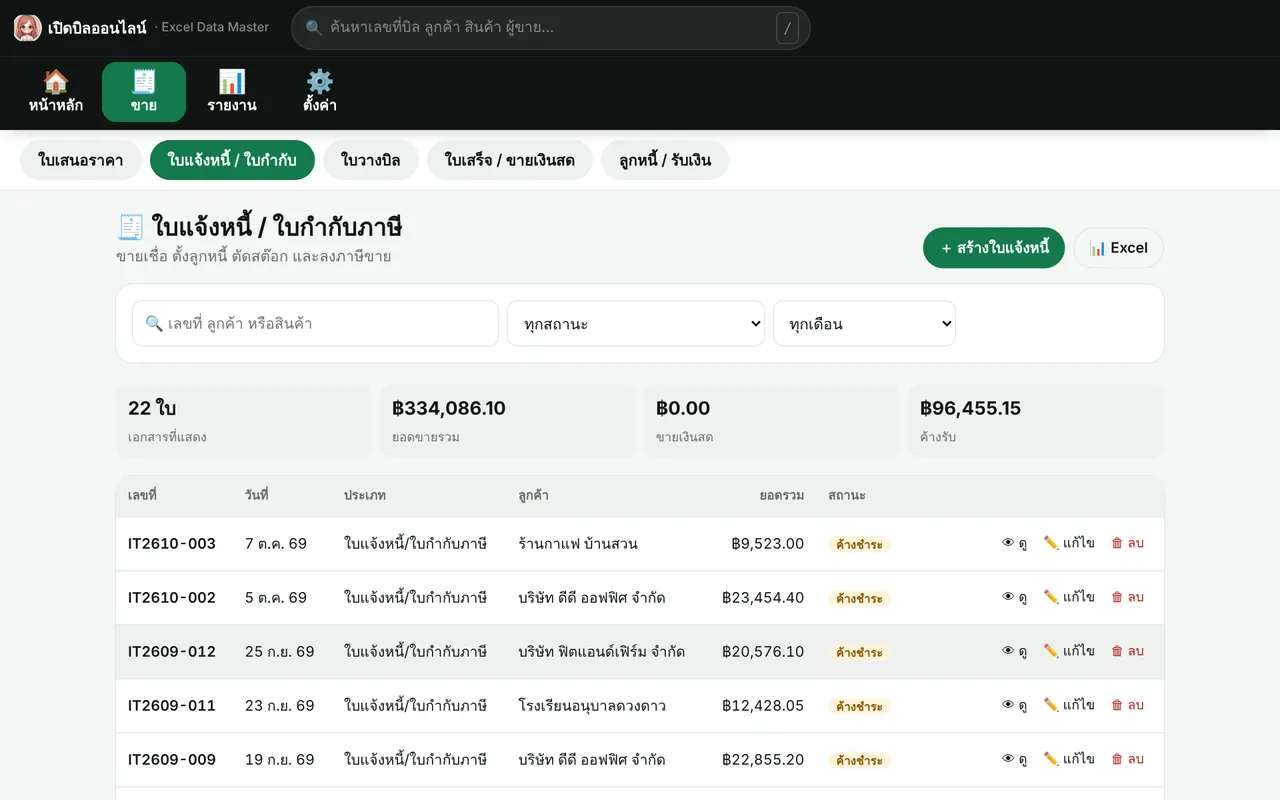
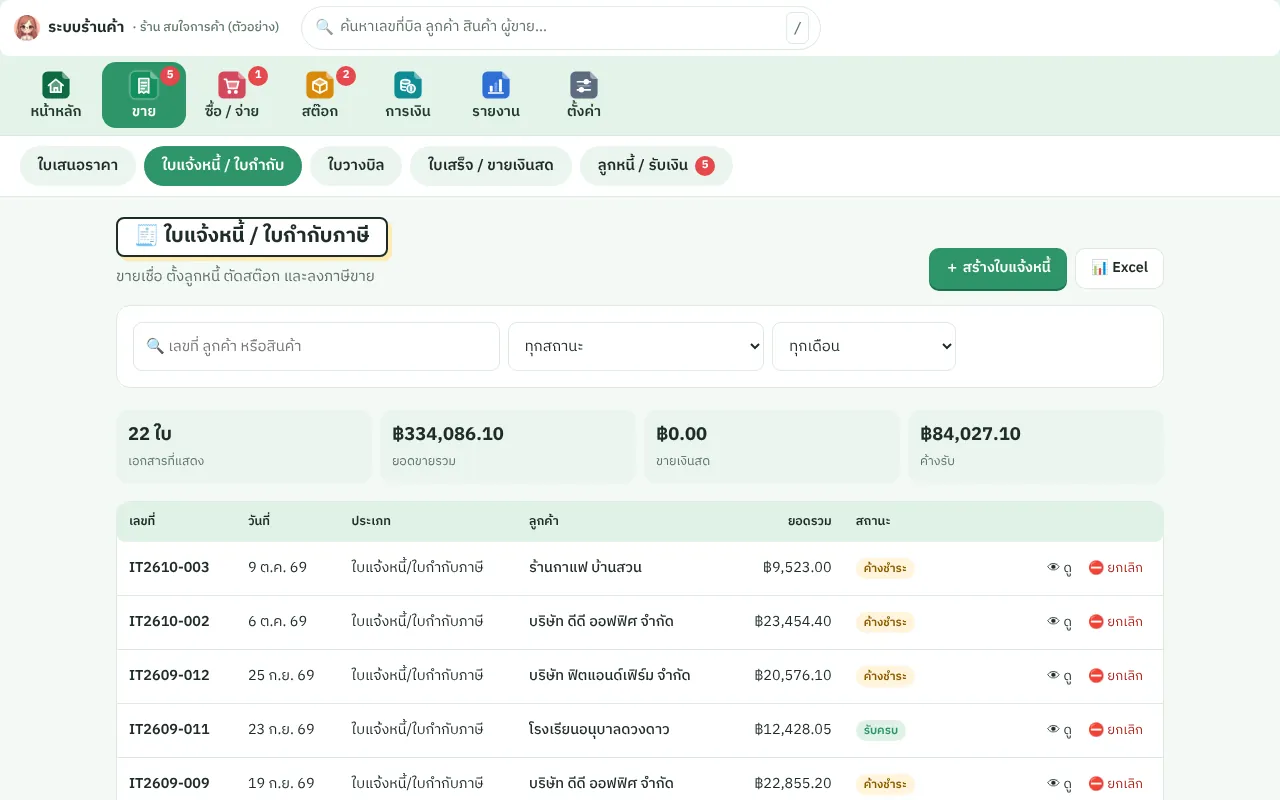
หน้าร้าน: ภาพสินค้าใหม่ทุกระบบ (หน้าตาพาสเทล ข้อมูลตัวอย่าง ฟอนต์จริง) · แก้ตัวเลขเด่นบัญชีร้านค้าที่มองไม่เห็น
Claude-Session: https://claude.ai/code/session_01EbbxVPtwtVY3ByRXsAceaL

diff --git a/index.html b/index.html
@@ -671,8 +671,8 @@ header.top .hd .logo{flex:0 1 auto;min-width:0}
         <ul class="hx-ok"><li>ไม่ต้องใส่บัตรเครดิต</li><li>ใส่โลโก้และข้อมูลร้านของคุณเอง</li><li>ติดตรงไหน ทัก LINE มีคนตอบ</li></ul>
       </div>
       <div class="hx-art" aria-hidden="true">
-        <figure class="dev-pc"><div class="dev-bar"><i></i><i></i><i></i><span>exceldatamaster.com/bill</span></div><img src="/assets/shop/ui-billform.webp" alt="" width="1280" height="800"></figure>
-        <figure class="dev-ph"><img src="/assets/shop/ui-m_cafe.webp" alt="" width="585" height="1266"></figure>
+        <figure class="dev-pc"><div class="dev-bar"><i></i><i></i><i></i><span>exceldatamaster.com/bill</span></div><img src="/assets/shop/ui-billform.webp?v=2" alt="" width="1280" height="800"></figure>
+        <figure class="dev-ph"><img src="/assets/shop/ui-m_cafe.webp?v=2" alt="" width="585" height="1266"></figure>
       </div>
     </div></section>
 
@@ -686,26 +686,26 @@ header.top .hd .logo{flex:0 1 auto;min-width:0}
       <a class="sys-main" href="/app/">
         <div class="sys-main-txt"><span class="sys-tag">คุ้มที่สุด</span><h3><span class="ico2 lg on-dark"><svg class="edm-ic " viewBox="0 0 32 32" aria-hidden="true" focusable="false"><path d="M7 1.5h15.5L30.5 9.5V25a5.5 5.5 0 0 1-5.5 5.5H7A5.5 5.5 0 0 1 1.5 25V7A5.5 5.5 0 0 1 7 1.5z" fill="#0E6B43"></path><path d="M22.5 1.5v4.3a3.7 3.7 0 0 0 3.7 3.7h4.3z" fill="#fff" fill-opacity=".42"></path><g transform="translate(5.5 6.5) scale(.86)" fill="none" stroke="#fff" stroke-width="2.1" stroke-linecap="round" stroke-linejoin="round"><path fill="#fff" fill-opacity=".34" stroke="none" d="M5 11.5h14V20H5z"></path><path d="M3.5 9 5.3 4h13.4l1.8 5"></path><path d="M3.5 9a2.8 2.8 0 0 0 5.7 0 2.8 2.8 0 0 0 5.6 0 2.8 2.8 0 0 0 5.7 0M5 11.5V20h14v-8.5M10 20v-5h4v5"></path></g></svg></span>ระบบร้านค้า ตัวเต็ม</h3><p>เปิดบิล ภาษี สต๊อก ซื้อ-ค่าใช้จ่าย การเงิน และรายงาน อยู่ในที่เดียว หน้าแรกสรุปยอดขาย ลูกหนี้ และสินค้าใกล้หมดให้ทุกวัน</p>
           <ul class="sys-flow"><li>เปิดบิล</li><li>ตัดสต๊อก</li><li>ลงบัญชี</li><li>สรุปภาษี</li></ul><span class="btn btn-main">เข้าระบบร้านค้า</span></div>
-        <div class="sys-main-img"><img src="/assets/shop/ui-app.webp" alt="หน้าหลักระบบร้านค้า สรุปยอดขาย ภาษี ลูกหนี้" loading="lazy" width="1280" height="800"></div>
+        <div class="sys-main-img"><img src="/assets/shop/ui-app.webp?v=2" alt="หน้าหลักระบบร้านค้า สรุปยอดขาย ภาษี ลูกหนี้" loading="lazy" width="1280" height="800"></div>
       </a>
       <div class="sys-grid">
-        <a class="sys" href="/bill/"><div class="sys-img"><img src="/assets/shop/ui-billform.webp" alt="ตัวอย่างหน้าจอเปิดบิลออนไลน์" loading="lazy" width="1280" height="800"></div>
+        <a class="sys" href="/bill/"><div class="sys-img"><img src="/assets/shop/ui-billform.webp?v=2" alt="ตัวอย่างหน้าจอเปิดบิลออนไลน์" loading="lazy" width="1280" height="800"></div>
           <div class="sys-txt"><h3><span class="ico2 "><svg class="edm-ic " viewBox="0 0 32 32" aria-hidden="true" focusable="false"><path d="M7 1.5h15.5L30.5 9.5V25a5.5 5.5 0 0 1-5.5 5.5H7A5.5 5.5 0 0 1 1.5 25V7A5.5 5.5 0 0 1 7 1.5z" fill="#149060"></path><path d="M22.5 1.5v4.3a3.7 3.7 0 0 0 3.7 3.7h4.3z" fill="#fff" fill-opacity=".42"></path><g transform="translate(5.5 6.5) scale(.86)" fill="none" stroke="#fff" stroke-width="2.1" stroke-linecap="round" stroke-linejoin="round"><path fill="#fff" fill-opacity=".34" stroke="none" d="M6 3h12v18l-3-2-3 2-3-2-3 2z"></path><path d="M6 3h12v18l-3-2-3 2-3-2-3 2zM9 8h6M9 12h6M9 15.5h3.5"></path></g></svg></span>เปิดบิลออนไลน์</h3><p>ใบเสนอราคา ใบแจ้งหนี้ ใบกำกับภาษี ใบเสร็จ ใบวางบิล พิมพ์ A4 หรือส่ง PDF ให้ลูกค้า</p><span class="sys-go">ทดลองใช้ฟรี</span></div></a>
-        <a class="sys" href="/stock/"><div class="sys-img"><img src="/assets/shop/ui-stock.webp" alt="ตัวอย่างหน้าจอสต๊อกสินค้า" loading="lazy" width="1280" height="800"></div>
+        <a class="sys" href="/stock/"><div class="sys-img"><img src="/assets/shop/ui-stock.webp?v=2" alt="ตัวอย่างหน้าจอสต๊อกสินค้า" loading="lazy" width="1280" height="800"></div>
           <div class="sys-txt"><h3><span class="ico2 "><svg class="edm-ic " viewBox="0 0 32 32" aria-hidden="true" focusable="false"><path d="M7 1.5h15.5L30.5 9.5V25a5.5 5.5 0 0 1-5.5 5.5H7A5.5 5.5 0 0 1 1.5 25V7A5.5 5.5 0 0 1 7 1.5z" fill="#D98A0B"></path><path d="M22.5 1.5v4.3a3.7 3.7 0 0 0 3.7 3.7h4.3z" fill="#fff" fill-opacity=".42"></path><g transform="translate(5.5 6.5) scale(.86)" fill="none" stroke="#fff" stroke-width="2.1" stroke-linecap="round" stroke-linejoin="round"><path fill="#fff" fill-opacity=".34" stroke="none" d="M12 3 20.5 7.5 12 12 3.5 7.5z"></path><path d="M3.5 7.5 12 3l8.5 4.5v9L12 21l-8.5-4.5zM3.5 7.5 12 12l8.5-4.5M12 12v9"></path></g></svg></span>สต๊อกสินค้า</h3><p>รับเข้า เบิกออก ตรวจนับ รู้ยอดคงเหลือและต้นทุนเฉลี่ย เตือนก่อนของหมด</p><span class="sys-go">ทดลองใช้ฟรี</span></div></a>
-        <a class="sys" href="/cafe/"><div class="sys-img"><img src="/assets/shop/ui-cafe.webp" alt="ตัวอย่างหน้าจอร้านคาเฟ่ (POS)" loading="lazy" width="1280" height="800"></div>
+        <a class="sys" href="/cafe/"><div class="sys-img"><img src="/assets/shop/ui-cafe.webp?v=2" alt="ตัวอย่างหน้าจอร้านคาเฟ่ (POS)" loading="lazy" width="1280" height="800"></div>
           <div class="sys-txt"><h3><span class="ico2 "><svg class="edm-ic " viewBox="0 0 32 32" aria-hidden="true" focusable="false"><path d="M7 1.5h15.5L30.5 9.5V25a5.5 5.5 0 0 1-5.5 5.5H7A5.5 5.5 0 0 1 1.5 25V7A5.5 5.5 0 0 1 7 1.5z" fill="#8B5A3C"></path><path d="M22.5 1.5v4.3a3.7 3.7 0 0 0 3.7 3.7h4.3z" fill="#fff" fill-opacity=".42"></path><g transform="translate(5.5 6.5) scale(.86)" fill="none" stroke="#fff" stroke-width="2.1" stroke-linecap="round" stroke-linejoin="round"><path fill="#fff" fill-opacity=".34" stroke="none" d="M4 9h12v4.5A5.5 5.5 0 0 1 10.5 19h-1A5.5 5.5 0 0 1 4 13.5z"></path><path d="M4 9h12v4.5A5.5 5.5 0 0 1 10.5 19h-1A5.5 5.5 0 0 1 4 13.5zM16 10.5h1.3a2.6 2.6 0 0 1 0 5.2H16M7.5 3.3c-.7 1 .7 1.7 0 2.7M11.5 3.3c-.7 1 .7 1.7 0 2.7"></path></g></svg></span>ร้านคาเฟ่ (POS)</h3><p>ขายหน้าร้าน ออกคิว ส่งออเดอร์เข้าจอบาร์ ตัดวัตถุดิบตามสูตร ปิดกะนับเงิน</p><span class="sys-go">ทดลองใช้ฟรี</span></div></a>
-        <a class="sys" href="/booking/"><div class="sys-img"><img src="/assets/shop/ui-booking.webp" alt="ตัวอย่างหน้าจอจองห้อง / ให้เช่า" loading="lazy" width="1280" height="800"></div>
+        <a class="sys" href="/booking/"><div class="sys-img"><img src="/assets/shop/ui-booking.webp?v=2" alt="ตัวอย่างหน้าจอจองห้อง / ให้เช่า" loading="lazy" width="1280" height="800"></div>
           <div class="sys-txt"><h3><span class="ico2 "><svg class="edm-ic " viewBox="0 0 32 32" aria-hidden="true" focusable="false"><path d="M7 1.5h15.5L30.5 9.5V25a5.5 5.5 0 0 1-5.5 5.5H7A5.5 5.5 0 0 1 1.5 25V7A5.5 5.5 0 0 1 7 1.5z" fill="#7A4FC2"></path><path d="M22.5 1.5v4.3a3.7 3.7 0 0 0 3.7 3.7h4.3z" fill="#fff" fill-opacity=".42"></path><g transform="translate(5.5 6.5) scale(.86)" fill="none" stroke="#fff" stroke-width="2.1" stroke-linecap="round" stroke-linejoin="round"><rect fill="#fff" fill-opacity=".34" stroke="none" x="3.5" y="5" width="17" height="5" rx="1"></rect><rect x="3.5" y="5" width="17" height="15.5" rx="2.5"></rect><path d="M3.5 10h17M8 3v4M16 3v4M8.5 15l2.4 2.4 4.6-4.6"></path></g></svg></span>จองห้อง / ให้เช่า</h3><p>ห้องพัก ห้องประชุม สนาม อุปกรณ์ เช็กว่างให้ ไม่จองซ้อน รับมัดจำ ออกใบเสร็จ</p><span class="sys-go">ทดลองใช้ฟรี</span></div></a>
-        <a class="sys" href="/account/"><div class="sys-img"><img src="/assets/shop/ui-account.webp" alt="ตัวอย่างหน้าจอบัญชีร้านค้า" loading="lazy" width="1280" height="800"></div>
+        <a class="sys" href="/account/"><div class="sys-img"><img src="/assets/shop/ui-account.webp?v=2" alt="ตัวอย่างหน้าจอบัญชีร้านค้า" loading="lazy" width="1280" height="800"></div>
           <div class="sys-txt"><h3><span class="ico2 "><svg class="edm-ic " viewBox="0 0 32 32" aria-hidden="true" focusable="false"><path d="M7 1.5h15.5L30.5 9.5V25a5.5 5.5 0 0 1-5.5 5.5H7A5.5 5.5 0 0 1 1.5 25V7A5.5 5.5 0 0 1 7 1.5z" fill="#2F6FD6"></path><path d="M22.5 1.5v4.3a3.7 3.7 0 0 0 3.7 3.7h4.3z" fill="#fff" fill-opacity=".42"></path><g transform="translate(5.5 6.5) scale(.86)" fill="none" stroke="#fff" stroke-width="2.1" stroke-linecap="round" stroke-linejoin="round"><rect x="4.5" y="12" width="3.6" height="7.5" rx="1" fill="#fff" stroke="none"></rect><rect x="10.2" y="7.5" width="3.6" height="12" rx="1" fill="#fff" fill-opacity=".34" stroke="none"></rect><rect x="15.9" y="4" width="3.6" height="15.5" rx="1" fill="#fff" stroke="none"></rect><path d="M3 21h18"></path></g></svg></span>บัญชีร้านค้า</h3><p>กำไรขาดทุนรายเดือน ลูกหนี้ เจ้าหนี้ เงินสด-ธนาคาร ภาษีซื้อ-ขาย</p><span class="sys-go">ทดลองใช้ฟรี</span></div></a>
-        <a class="sys" href="/payroll/"><div class="sys-img"><img src="/assets/shop/ui-payroll.webp" alt="ตัวอย่างหน้าจอคำนวณเงินเดือน" loading="lazy" width="1280" height="800"></div>
+        <a class="sys" href="/payroll/"><div class="sys-img"><img src="/assets/shop/ui-payroll.webp?v=2" alt="ตัวอย่างหน้าจอคำนวณเงินเดือน" loading="lazy" width="1280" height="800"></div>
           <div class="sys-txt"><h3><span class="ico2 "><svg class="edm-ic " viewBox="0 0 32 32" aria-hidden="true" focusable="false"><path d="M7 1.5h15.5L30.5 9.5V25a5.5 5.5 0 0 1-5.5 5.5H7A5.5 5.5 0 0 1 1.5 25V7A5.5 5.5 0 0 1 7 1.5z" fill="#C2410C"></path><path d="M22.5 1.5v4.3a3.7 3.7 0 0 0 3.7 3.7h4.3z" fill="#fff" fill-opacity=".42"></path><g transform="translate(5.5 6.5) scale(.86)" fill="none" stroke="#fff" stroke-width="2.1" stroke-linecap="round" stroke-linejoin="round"><path fill="#fff" fill-opacity=".34" stroke="none" d="M3 10.5h18v9H3z"></path><rect x="3" y="6.5" width="18" height="13" rx="2.5"></rect><path d="M3 10.5h18M7 6.5 9 3.6l7 2.9"></path><circle cx="16.5" cy="15" r="1.4" fill="#fff"></circle></g></svg></span>คำนวณเงินเดือน</h3><p>ประกันสังคม ภาษีหัก ณ ที่จ่าย OT ขาดลามาสาย พิมพ์สลิปรายคน</p><span class="sys-go">ทดลองใช้ฟรี</span></div></a>
-        <a class="sys" href="/todo/"><div class="sys-img"><img src="/assets/shop/ui-todo.webp" alt="ตัวอย่างหน้าจอTo-Do List ออนไลน์" loading="lazy" width="1280" height="800"></div>
+        <a class="sys" href="/todo/"><div class="sys-img"><img src="/assets/shop/ui-todo.webp?v=2" alt="ตัวอย่างหน้าจอTo-Do List ออนไลน์" loading="lazy" width="1280" height="800"></div>
           <div class="sys-txt"><h3><span class="ico2 "><svg class="edm-ic " viewBox="0 0 32 32" aria-hidden="true" focusable="false"><path d="M7 1.5h15.5L30.5 9.5V25a5.5 5.5 0 0 1-5.5 5.5H7A5.5 5.5 0 0 1 1.5 25V7A5.5 5.5 0 0 1 7 1.5z" fill="#15803D"></path><path d="M22.5 1.5v4.3a3.7 3.7 0 0 0 3.7 3.7h4.3z" fill="#fff" fill-opacity=".42"></path><g transform="translate(5.5 6.5) scale(.86)" fill="none" stroke="#fff" stroke-width="2.1" stroke-linecap="round" stroke-linejoin="round"><rect fill="#fff" fill-opacity=".34" stroke="none" x="3.5" y="3.5" width="17" height="17" rx="4"></rect><rect x="3.5" y="3.5" width="17" height="17" rx="4"></rect><path d="M7.5 12.3l3 3 6-6.3"></path></g></svg></span>To-Do List ออนไลน์</h3><p>หน้าตาแบบตาราง Excel ใช้ออนไลน์ ติ๊กเสร็จขีดฆ่าให้ นับวันคงเหลือ แดชบอร์ด % ความคืบหน้า ปฏิทินงาน ปี พ.ศ. · ลองได้ทันทีไม่ต้องสมัคร</p><span class="sys-go">ทดลองใช้ฟรี</span></div></a>
-        <a class="sys" href="/finance/"><div class="sys-img"><img src="/assets/shop/ui-finance.webp" alt="ตัวอย่างหน้าจอการเงิน SME &amp; ฟรีแลนซ์" loading="lazy" width="1280" height="800"></div>
+        <a class="sys" href="/finance/"><div class="sys-img"><img src="/assets/shop/ui-finance.webp?v=2" alt="ตัวอย่างหน้าจอการเงิน SME &amp; ฟรีแลนซ์" loading="lazy" width="1280" height="800"></div>
           <div class="sys-txt"><h3><span class="ico2 "><svg class="edm-ic " viewBox="0 0 32 32" aria-hidden="true" focusable="false"><path d="M7 1.5h15.5L30.5 9.5V25a5.5 5.5 0 0 1-5.5 5.5H7A5.5 5.5 0 0 1 1.5 25V7A5.5 5.5 0 0 1 7 1.5z" fill="#0E8C94"></path><path d="M22.5 1.5v4.3a3.7 3.7 0 0 0 3.7 3.7h4.3z" fill="#fff" fill-opacity=".42"></path><g transform="translate(5.5 6.5) scale(.86)" fill="none" stroke="#fff" stroke-width="2.1" stroke-linecap="round" stroke-linejoin="round"><ellipse fill="#fff" fill-opacity=".34" stroke="none" cx="9" cy="7" rx="5.5" ry="2.6"></ellipse><path d="M3.5 7c0-1.4 2.5-2.6 5.5-2.6s5.5 1.2 5.5 2.6-2.5 2.6-5.5 2.6S3.5 8.4 3.5 7zM3.5 7v4c0 1.4 2.5 2.6 5.5 2.6M3.5 11v4c0 1.4 2.5 2.6 5.5 2.6"></path><circle fill="#fff" fill-opacity=".34" stroke="none" cx="16" cy="15.5" r="5"></circle><circle cx="16" cy="15.5" r="5"></circle><path d="M16 13v5"></path></g></svg></span>การเงิน SME &amp; ฟรีแลนซ์</h3><p>บัญชีรายรับ-รายจ่ายยืดหยุ่นทุกธุรกิจ หลายกระเป๋าเงิน แยกกำไรตามสาขา/โปรเจกต์ รายการประจำลงให้เอง แดชบอร์ดกราฟ สรุปภาษี · ลองได้ทันทีไม่ต้องสมัคร</p><span class="sys-go">ทดลองใช้ฟรี</span></div></a>
-        <a class="sys" href="/time/"><div class="sys-img"><img src="/assets/shop/ui-time.webp" alt="ตัวอย่างหน้าจอลงเวลา / ตอกบัตร" loading="lazy" width="1280" height="800"></div>
+        <a class="sys" href="/time/"><div class="sys-img"><img src="/assets/shop/ui-time.webp?v=2" alt="ตัวอย่างหน้าจอลงเวลา / ตอกบัตร" loading="lazy" width="1280" height="800"></div>
           <div class="sys-txt"><h3><span class="ico2 "><svg class="edm-ic " viewBox="0 0 32 32" aria-hidden="true" focusable="false"><path d="M7 1.5h15.5L30.5 9.5V25a5.5 5.5 0 0 1-5.5 5.5H7A5.5 5.5 0 0 1 1.5 25V7A5.5 5.5 0 0 1 7 1.5z" fill="#0E7490"></path><path d="M22.5 1.5v4.3a3.7 3.7 0 0 0 3.7 3.7h4.3z" fill="#fff" fill-opacity=".42"></path><g transform="translate(5.5 6.5) scale(.86)" fill="none" stroke="#fff" stroke-width="2.1" stroke-linecap="round" stroke-linejoin="round"><circle fill="#fff" fill-opacity=".34" stroke="none" cx="12" cy="12.5" r="8.5"></circle><circle cx="12" cy="12.5" r="8.5"></circle><path d="M12 8v4.8l3.2 2M9.5 2.8h5"></path></g></svg></span>ลงเวลา / ตอกบัตร</h3><p>พนักงานตอกบัตรเข้า-ออกหน้าร้าน คิดสาย ขาด ลา OT ให้เอง รายงานตามแผนก ส่งออก Excel ได้</p><span class="sys-go">ทดลองใช้ฟรี</span></div></a></div>
       <div class="trial" id="trial"><div class="trial-t"><h3>เริ่มทดลองใช้ฟรี 7 วัน</h3><ol class="trial-steps"><li>สมัครด้วยอีเมลจากหน้าระบบที่สนใจ</li><li>กดลิงก์ยืนยันในอีเมล ใช้ได้ทันที</li><li>ใช้งานได้เต็มที่ 7 วัน</li></ol></div>
         <div class="trial-btns"><a class="btn btn-main" href="/app/?start=signup">สมัครทดลองใช้</a><a class="btn btn-line" href="/app/?start=login">เข้าสู่ระบบ</a></div></div>
@@ -1025,8 +1025,8 @@ function render(){
         <ul class="hx-ok"><li>ไม่ต้องใส่บัตรเครดิต</li><li>ใส่โลโก้และข้อมูลร้านของคุณเอง</li><li>ติดตรงไหน ทัก LINE มีคนตอบ</li></ul>
       </div>
       <div class="hx-art" aria-hidden="true">
-        <figure class="dev-pc"><div class="dev-bar"><i></i><i></i><i></i><span>exceldatamaster.com/bill</span></div><img src="/assets/shop/ui-billform.webp" alt="" width="1280" height="800"></figure>
-        <figure class="dev-ph"><img src="/assets/shop/ui-m_cafe.webp" alt="" width="585" height="1266"></figure>
+        <figure class="dev-pc"><div class="dev-bar"><i></i><i></i><i></i><span>exceldatamaster.com/bill</span></div><img src="/assets/shop/ui-billform.webp?v=2" alt="" width="1280" height="800"></figure>
+        <figure class="dev-ph"><img src="/assets/shop/ui-m_cafe.webp?v=2" alt="" width="585" height="1266"></figure>
       </div>
     </div></section>
 
@@ -1040,10 +1040,10 @@ function render(){
       <a class="sys-main" href="${base}app/"${tg}>
         <div class="sys-main-txt"><span class="sys-tag">คุ้มที่สุด</span><h3>${ico("store","lg on-dark")}ระบบร้านค้า ตัวเต็ม</h3><p>เปิดบิล ภาษี สต๊อก ซื้อ-ค่าใช้จ่าย การเงิน และรายงาน อยู่ในที่เดียว หน้าแรกสรุปยอดขาย ลูกหนี้ และสินค้าใกล้หมดให้ทุกวัน</p>
           <ul class="sys-flow"><li>เปิดบิล</li><li>ตัดสต๊อก</li><li>ลงบัญชี</li><li>สรุปภาษี</li></ul><span class="btn btn-main">เข้าระบบร้านค้า</span></div>
-        <div class="sys-main-img"><img src="/assets/shop/ui-app.webp" alt="หน้าหลักระบบร้านค้า สรุปยอดขาย ภาษี ลูกหนี้" loading="lazy" width="1280" height="800"></div>
+        <div class="sys-main-img"><img src="/assets/shop/ui-app.webp?v=2" alt="หน้าหลักระบบร้านค้า สรุปยอดขาย ภาษี ลูกหนี้" loading="lazy" width="1280" height="800"></div>
       </a>
       <div class="sys-grid">${SYS.map(([k,ic,n,d,img])=>`
-        <a class="sys" href="${base}${k}/"${tg}><div class="sys-img"><img src="/assets/shop/ui-${img}.webp" alt="ตัวอย่างหน้าจอ${n}" loading="lazy" width="1280" height="800"></div>
+        <a class="sys" href="${base}${k}/"${tg}><div class="sys-img"><img src="/assets/shop/ui-${img}.webp?v=2" alt="ตัวอย่างหน้าจอ${n}" loading="lazy" width="1280" height="800"></div>
           <div class="sys-txt"><h3>${ico(k)}${n}</h3><p>${d}</p><span class="sys-go">ทดลองใช้ฟรี</span></div></a>`).join("")}</div>
       <div class="trial" id="trial"><div class="trial-t"><h3>เริ่มทดลองใช้ฟรี 7 วัน</h3><ol class="trial-steps"><li>สมัครด้วยอีเมลจากหน้าระบบที่สนใจ</li><li>กดลิงก์ยืนยันในอีเมล ใช้ได้ทันที</li><li>ใช้งานได้เต็มที่ 7 วัน</li></ol></div>
         <div class="trial-btns"><a class="btn btn-main" href="${base}app/?start=signup"${tg}>สมัครทดลองใช้</a><a class="btn btn-line" href="${base}app/?start=login"${tg}>เข้าสู่ระบบ</a></div></div>

diff --git a/bill/index.html b/bill/index.html
@@ -189,7 +189,7 @@ details.opt{border:1px dashed var(--line);border-radius:12px;padding:8px 12px}de
 .p-adj{margin-top:6px;font-weight:400;font-size:9pt;color:#333}
 </style>
 <script src="../assets/suggest.js?v=50"></script>
-<link rel="stylesheet" href="../assets/pastel.css?v=3">
+<link rel="stylesheet" href="../assets/pastel.css?v=5">
 <script src="../assets/pastel.js?v=2" defer></script>
 </head>
 <body>
@@ -776,7 +776,7 @@ const DEMO={
       ["RC",1,0,[["ค่ามัดจำงานถ่ายวิดีโอโปรโมต 50%",1,"งาน",8000,0]],0,"รับมัดจำ งานถ่ายวิดีโอเดือน พ.ย."]]}
 };
 function loadDemo(mode){
-  if(mode==="goods"){if(confirm("ใส่ข้อมูลตัวอย่างร้านค้าย้อนหลัง 3 เดือน ให้ทุกระบบ?\n(เปิดบิล · ภาษี · สต๊อก · ซื้อสินค้า · ค่าใช้จ่าย · บัญชี)\n\nข้อมูลเดิมในเครื่องนี้จะถูกแทนที่ ถ้ามีข้อมูลจริง ให้สำรองก่อน"))location.href="/account/?v=59#demo&back=/bill/";return}
+  if(mode==="goods"){if(confirm("ใส่ข้อมูลตัวอย่างร้านค้าย้อนหลัง 3 เดือน ให้ทุกระบบ?\n(เปิดบิล · ภาษี · สต๊อก · ซื้อสินค้า · ค่าใช้จ่าย · บัญชี)\n\nข้อมูลเดิมในเครื่องนี้จะถูกแทนที่ ถ้ามีข้อมูลจริง ให้สำรองก่อน"))location.href="/account/?v=60#demo&back=/bill/";return}
   const has=LS.get(K.docs,[]).length;
   if(!confirm("ใส่ข้อมูลตัวอย่าง "+(mode==="goods"?"ธุรกิจซื้อมาขายไป":"ธุรกิจบริการ")+"?"+(has?"\n\nเอกสาร ข้อมูลกิจการ และรายชื่อลูกค้าในเครื่องนี้จะถูกแทนที่ด้วยข้อมูลตัวอย่าง (ถ้ามีข้อมูลจริง ให้กด \"สำรองข้อมูล\" ก่อน)":"")))return;
   const D=DEMO[mode];seller=Object.assign({},seller,D.seller,{logo:""});LS.set(K.seller,seller);

diff --git a/stock/index.html b/stock/index.html
@@ -118,7 +118,7 @@ body.edm-ro .edm-lock{pointer-events:none;opacity:.45;filter:grayscale(.4)}
 .hint{background:var(--soft);border-radius:12px;padding:10px 12px;font-size:.86rem;line-height:1.55}.hint a{color:var(--accent);font-weight:600}
 html{overscroll-behavior-y:contain}
 </style>
-<link rel="stylesheet" href="../assets/pastel.css?v=3">
+<link rel="stylesheet" href="../assets/pastel.css?v=5">
 <script src="../assets/pastel.js?v=2" defer></script>
 </head>
 <body>
@@ -477,7 +477,7 @@ window.addEventListener("hashchange",cardFromHash);setTimeout(cardFromHash,0);
 $("#tabs").onclick=e=>{const b=e.target.closest("button");if(!b)return;ui.v=b.dataset.v;svU();render();scrollTo(0,0)};
 document.addEventListener("click",e=>{const b=e.target.closest("[data-act],[data-card],[data-in],[data-outq],[data-adjq],[data-edit],[data-deltx],[data-go]");if(!b)return;
   if(b.dataset.act==="add")return itemForm();
-  if(b.dataset.act==="demo"){if(confirm("ใส่ข้อมูลตัวอย่างร้านค้าย้อนหลัง 3 เดือน ให้ทุกระบบ?\n(เปิดบิล · ภาษี · สต๊อก · ซื้อสินค้า · ค่าใช้จ่าย · บัญชี)\n\nข้อมูลเดิมในเครื่องนี้จะถูกแทนที่ ถ้ามีข้อมูลจริง ให้สำรองก่อน"))location.href="/account/?v=59#demo&back=/stock/";return}
+  if(b.dataset.act==="demo"){if(confirm("ใส่ข้อมูลตัวอย่างร้านค้าย้อนหลัง 3 เดือน ให้ทุกระบบ?\n(เปิดบิล · ภาษี · สต๊อก · ซื้อสินค้า · ค่าใช้จ่าย · บัญชี)\n\nข้อมูลเดิมในเครื่องนี้จะถูกแทนที่ ถ้ามีข้อมูลจริง ให้สำรองก่อน"))location.href="/account/?v=60#demo&back=/stock/";return}
   if(b.dataset.go){ui.v=b.dataset.go;svU();render();tellShell(ui.v);return}
   if(b.dataset.card)return stockCard(b.dataset.card);
   if(b.dataset.edit)return itemForm(b.dataset.edit);

diff --git a/assets/pastel.css b/assets/pastel.css
@@ -22,7 +22,7 @@ html[data-tone] .card>h2:first-child small{color:var(--ink);opacity:.72}
 html[data-tone] .hello h1{display:inline-block;background:#fff;border:2px solid var(--ink);border-radius:8px;padding:3px 16px;box-shadow:4px 4px 0 var(--tag);font-size:1.28rem;line-height:1.45;margin-bottom:6px}
 html[data-tone] .hello p{color:var(--muted)}
 /* ตัวเลขสรุป: แถบสีซ้าย */
-html[data-tone] .kpi{box-shadow:none;border:1px solid var(--line);border-left:5px solid var(--kc,var(--accent));border-radius:12px;background:#fff}
+html[data-tone] .kpi{box-shadow:none;border:1px solid var(--line);border-left:5px solid var(--kc,var(--accent));border-radius:12px}
 html[data-tone] .kpi:nth-child(4n+1){--kc:#6FA8DC}html[data-tone] .kpi:nth-child(4n+2){--kc:#A88BD0}html[data-tone] .kpi:nth-child(4n+3){--kc:#4FAF83}html[data-tone] .kpi:nth-child(4n){--kc:#E3BC4E}
 html[data-tone] .kpi.bad,html[data-tone] .kpi.warn{--kc:#E07A5F}
 /* ปุ่ม / ช่องกรอก / ตัวเลือก */
@@ -71,3 +71,7 @@ html[data-tone] .tabs button .edm-ic{width:22px;height:22px;flex:none}
 html[data-tone] .tabs button:has(.edm-ic){display:inline-flex;align-items:center;gap:7px}
 @media(max-width:760px){html[data-tone]:not(.edm-embed) body:not(.kiosk) .tabs button:has(.edm-ic){flex-direction:column;gap:2px;font-size:.74rem;padding:7px 8px}html[data-tone]:not(.edm-embed) body:not(.kiosk) .tabs button .edm-ic{width:24px;height:24px}}
 html[data-tone] .brand .edm-ic{width:26px;height:26px;flex:none;margin-right:2px}html[data-tone] .brand:has(.edm-ic){display:inline-flex;align-items:center;gap:6px}
+/* ตัวเลขเด่น (เช่น กำไรสุทธิในบัญชีร้านค้า) */
+html[data-tone] .kpi.big{background:var(--accent);color:#fff;--kc:var(--accent-d);border-color:var(--accent)}
+html[data-tone] .kpi.big span,html[data-tone] .kpi.big small,html[data-tone] .kpi.big b{color:#fff!important;opacity:1}
+html[data-tone=sage]{--c1:#4FAF83;--c2:#E39B57;--c3:#6FA8DC}

diff --git a/time/index.html b/time/index.html
@@ -77,7 +77,7 @@ body.kiosk header.top .nav,body.kiosk .tabs{display:none}
 .pr table{width:100%;border-collapse:collapse}.pr th,.pr td{border:1px solid #888;padding:2px 4px;text-align:left}.pr th{background:#eee}.pr td.r,.pr th.r{text-align:right}.pr tfoot td{font-weight:700;background:#f2f2f2}.pr tr{page-break-inside:avoid}
 .pr .mx td,.pr .mx th{padding:1px 2px;text-align:center;font-size:7.5pt}.pr .mx td:first-child,.pr .mx th:first-child{text-align:left;white-space:nowrap}
 </style>
-<link rel="stylesheet" href="../assets/pastel.css?v=3">
+<link rel="stylesheet" href="../assets/pastel.css?v=5">
 <script src="../assets/pastel.js?v=2" defer></script>
 </head>
 <body>

diff --git a/cafe/index.html b/cafe/index.html
@@ -233,7 +233,7 @@ body.edm-ro .edm-lock{pointer-events:none;opacity:.45;filter:grayscale(.4)}
 html{overscroll-behavior-y:contain}
 </style>
 <style id="pageSize">@page{size:80mm auto;margin:3mm}</style>
-<link rel="stylesheet" href="../assets/pastel.css?v=3">
+<link rel="stylesheet" href="../assets/pastel.css?v=5">
 <script src="../assets/pastel.js?v=2" defer></script>
 </head>
 <body>

diff --git a/account/index.html b/account/index.html
@@ -131,7 +131,7 @@ body.edm-ro .edm-lock{pointer-events:none;opacity:.45;filter:grayscale(.4)}
 html{overscroll-behavior-y:contain}
 </style>
 <script src="../assets/suggest.js?v=50"></script>
-<link rel="stylesheet" href="../assets/pastel.css?v=3">
+<link rel="stylesheet" href="../assets/pastel.css?v=5">
 <script src="../assets/pastel.js?v=2" defer></script>
 </head>
 <body>

diff --git a/booking/index.html b/booking/index.html
@@ -198,7 +198,7 @@ body.edm-ro .edm-lock{pointer-events:none;opacity:.45;filter:grayscale(.4)}
 }
 html{overscroll-behavior-y:contain}
 </style>
-<link rel="stylesheet" href="../assets/pastel.css?v=3">
+<link rel="stylesheet" href="../assets/pastel.css?v=5">
 <script src="../assets/pastel.js?v=2" defer></script>
 </head>
 <body>
